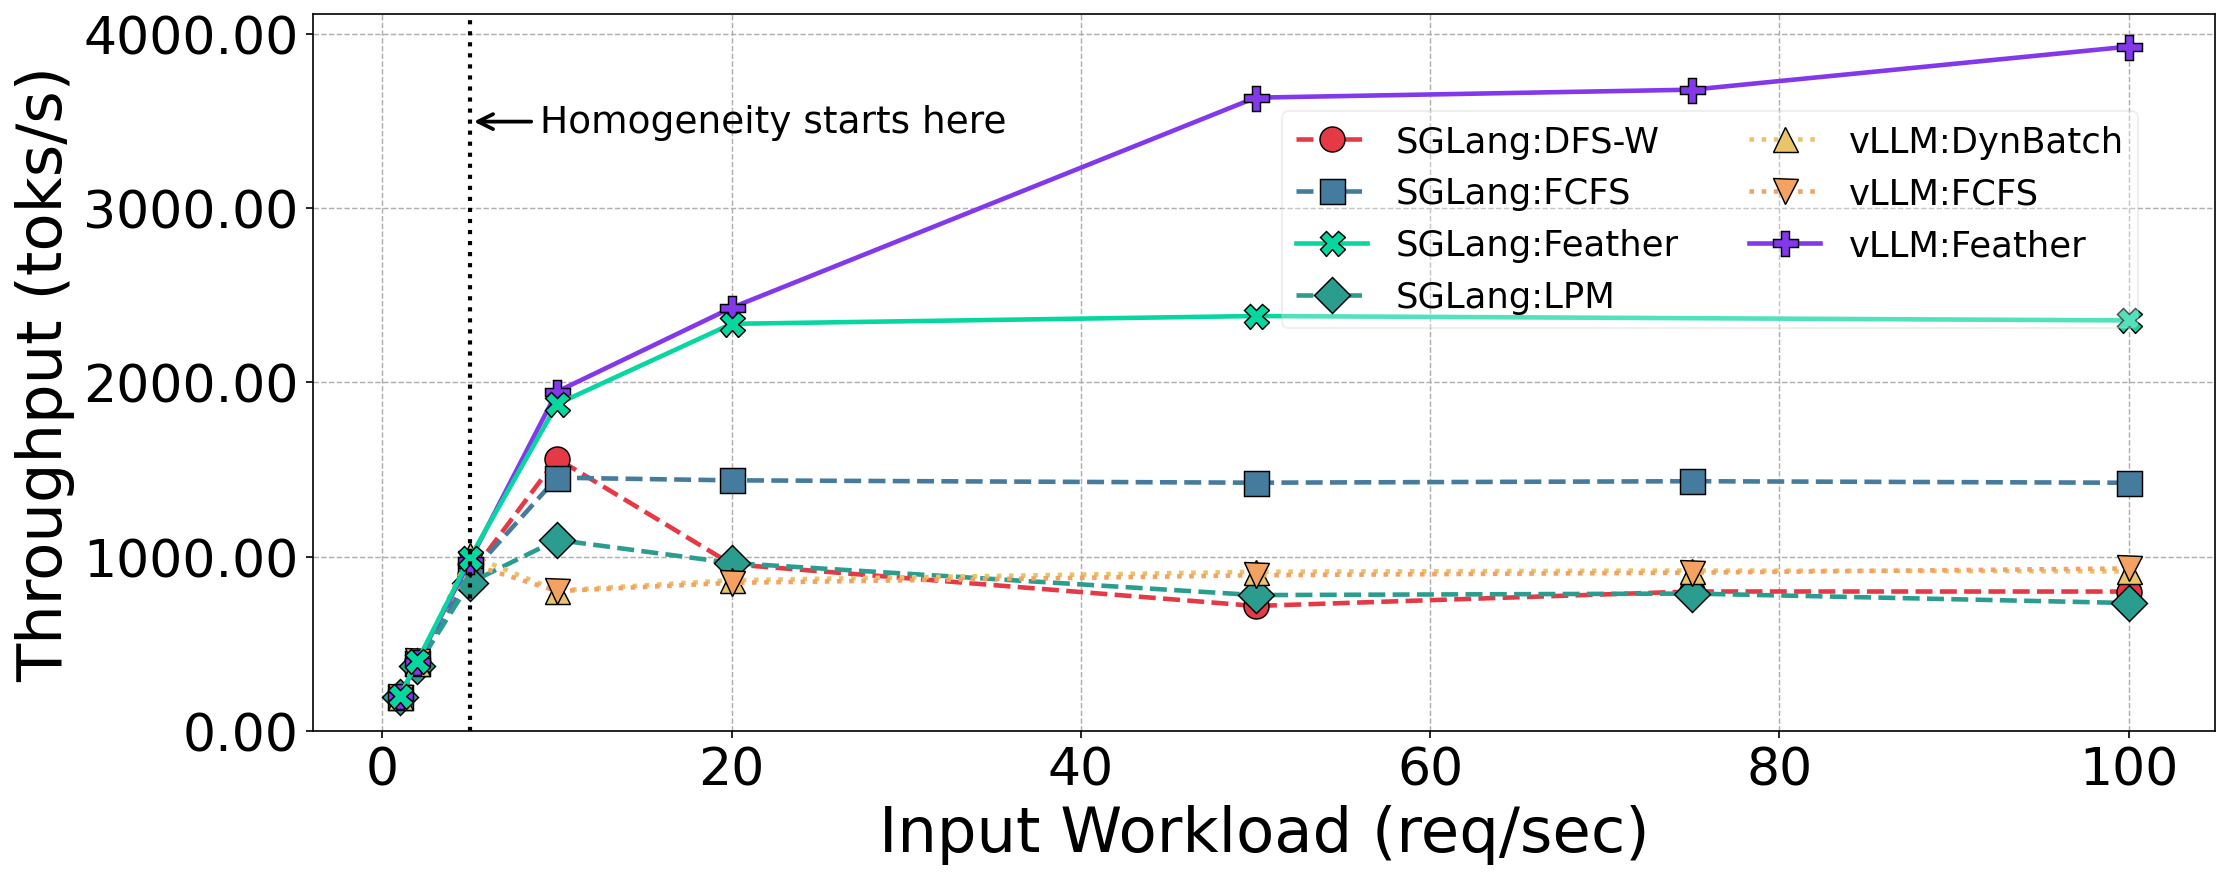
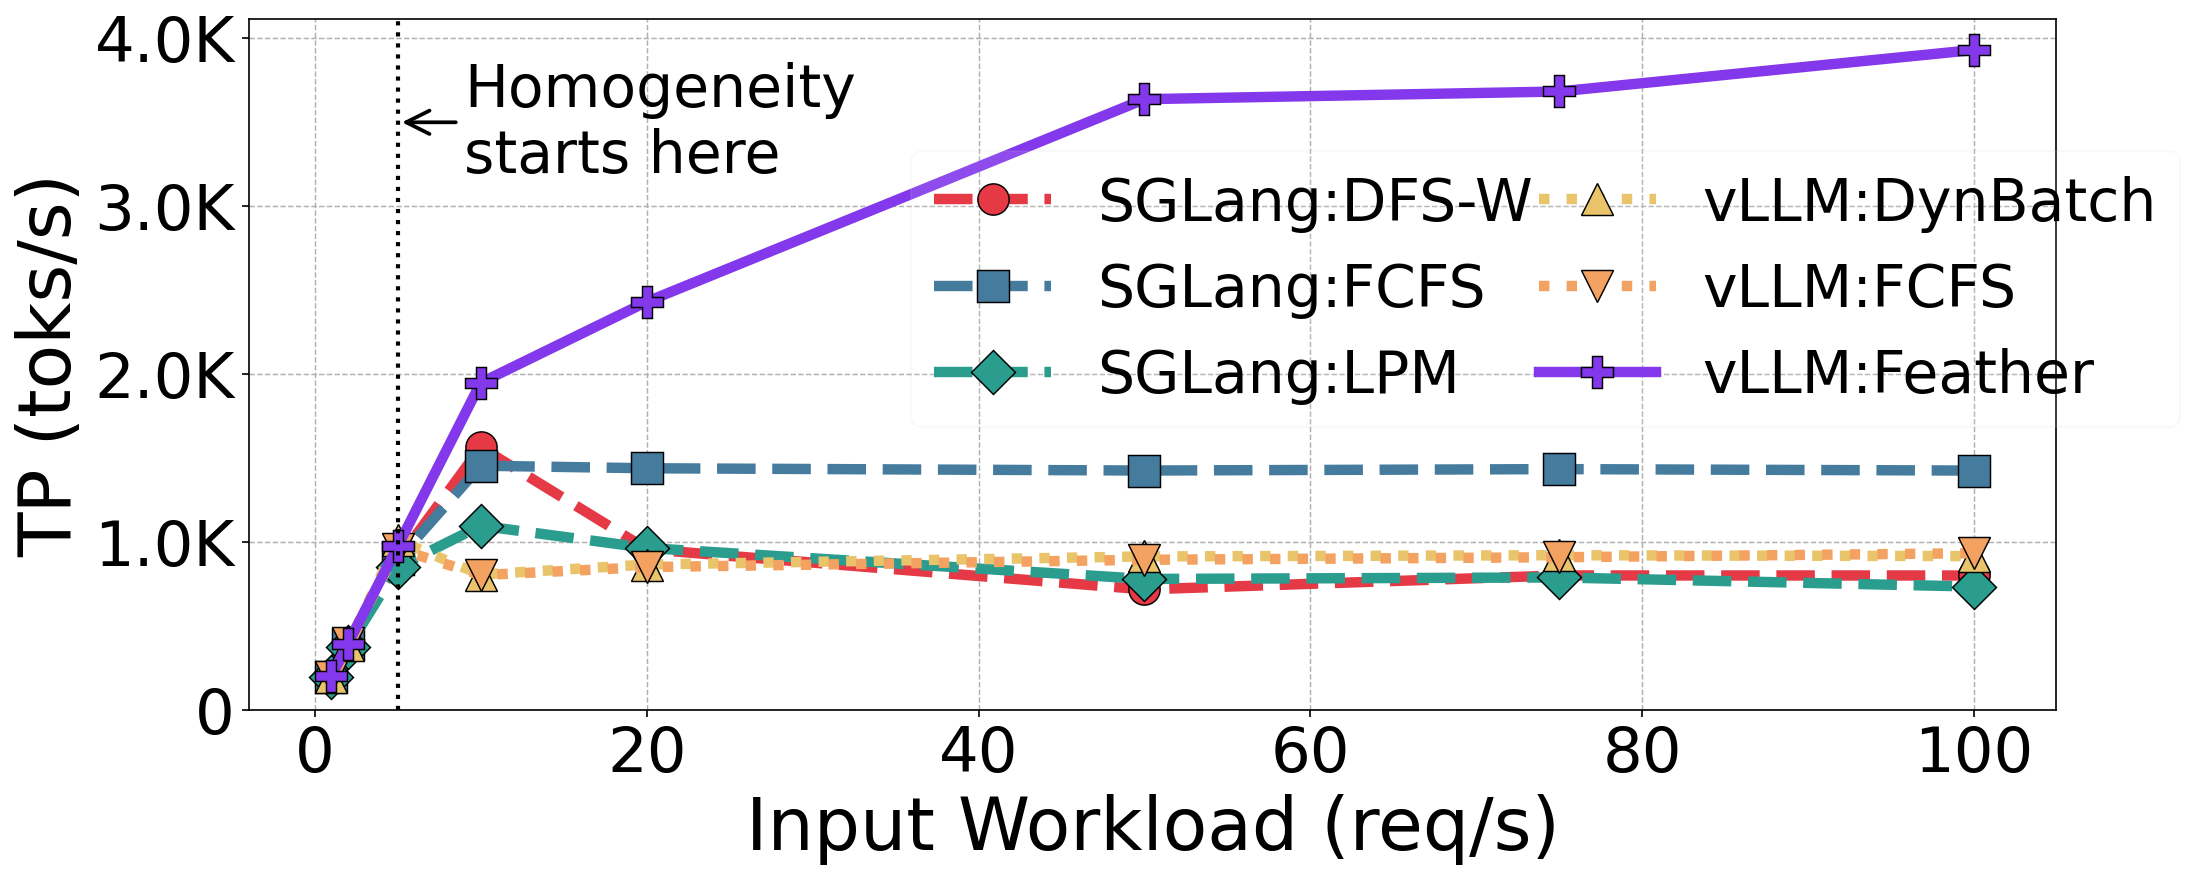
req-plots

diff --git a/code/vllm/req_per_sec_logs/plot.py b/code/vllm/req_per_sec_logs/plot.py
@@ -240,20 +240,21 @@ def make_plot(metric_key, ylabel, title, outpath):
                 ys,
                 marker=marker,
                 linestyle=linestyle,
-                linewidth=2.2,
-                markersize=12,
+                linewidth=5,
+                markersize=15,
                 markeredgecolor="black",
                 markeredgewidth=0.7,
                 color=color,
                 label=label
             )
 
-    ax.set_xlabel("Input Workload (req/sec)", fontsize=30)
-    ax.set_ylabel(ylabel, fontsize=30)
+    ax.set_xlabel("Input Workload (req/s)", fontsize=35)
+    ax.set_ylabel(ylabel, fontsize=35)
 
-    ax.tick_params(axis="both", labelsize=25)
+    ax.tick_params(axis="both", labelsize=30)
 
-    ax.yaxis.set_major_formatter(ticker.FormatStrFormatter('%.2f'))
+    # convert 1000 to 1K, and if less than 1, then 2 decimal places, otherwise no decimals
+    ax.yaxis.set_major_formatter(ticker.FuncFormatter(lambda x, pos: f"{x/1000:.1f}K" if x >= 1000 else (f"{x:.2f}" if x < 1 and x > 0.01 else f"{x:.0f}")))
 
     if metric_key == "throughput":
         handles, labels = ax.get_legend_handles_labels()
@@ -262,11 +263,12 @@ def make_plot(metric_key, ylabel, title, outpath):
         ax.legend(
             sorted_handles,
             sorted_labels,
-            fontsize=17,
-            framealpha=0.3,
+            fontsize=28,
+            framealpha=0.1,
             ncol=2,
+            columnspacing=0.1,
             loc="upper left",
-            bbox_to_anchor=(0.50, 0.89)
+            bbox_to_anchor=(0.35, 0.85)
         )
 
     ax.grid(True, linewidth=0.7, linestyle="--")
@@ -275,10 +277,10 @@ def make_plot(metric_key, ylabel, title, outpath):
     if metric_key == "throughput":
         ax.axvline(x=5, color='black', linestyle=':', linewidth=2)
         ax.annotate(
-            "Homogeneity starts here",
+            "Homogeneity\nstarts here",
             xy=(5, ax.get_ylim()[1] * 0.85),
             xytext=(9, ax.get_ylim()[1] * 0.85),
-            fontsize=18,
+            fontsize=28,
             color='black',
             arrowprops=dict(arrowstyle="->", color='black', lw=1.8),
             ha='left',
@@ -305,7 +307,7 @@ os.makedirs(OUT, exist_ok=True)
 
 make_plot(
     "throughput",
-    "Throughput (toks/s)",
+    "TP (toks/s)",
     "Throughput vs Request Rate",
     os.path.join(OUT, "throughput_vs_rps.png")
 )
